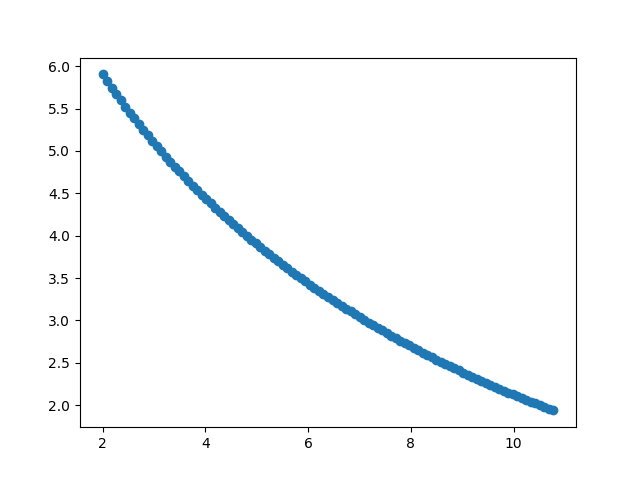
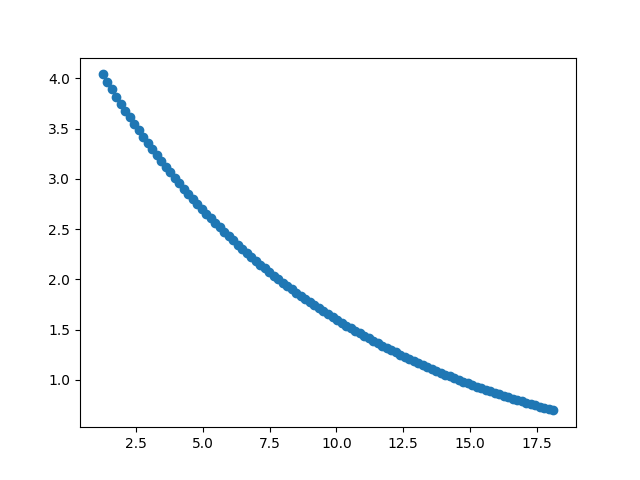
update

diff --git a/Prova 03/edoRungeKutta (ordem 4) - 02.py b/Prova 03/edoRungeKutta (ordem 4) - 02.py
@@ -26,10 +26,10 @@ if __name__ == '__main__':
 
     # Constantes:
     t0 = 0
-    p0 = 0.00167
-    λ = 0.01204
-    μ = 0.00775
-    r = 0.15961
+    p0 = 0.00169
+    λ = 0.02189
+    μ = 0.00562
+    r = 0.10586
 
     # Número de indivíduos na população no tempo t:
     def dx(x, t):
@@ -48,10 +48,12 @@ if __name__ == '__main__':
         return r*λ*(1-p_t)
 
     # Solução da equação diferencial:
+    c = p0 - 1
+    print(c, "\n\n")
     def pt(t):
-        return 1 - 0.9985*e**(-r*λ*t)
+        return 1 - c*e**(-r*λ*t)
     
-    T = [0.10462, 0.25995, 0.49702, 0.65569, 0.97176, 1.13427, 1.37198, 1.42463, 1.76529, 1.9557, 2.12531, 2.27375, 2.5517, 2.69528, 2.90956, 3.13102, 3.23151, 3.54688, 3.70281, 3.88052, 4.09559, 4.28596, 4.48676, 4.76031, 4.86408, 5.08953, 5.2877, 5.44885, 5.68397, 5.91214, 6.05573, 6.33215, 6.43418, 6.68719, 6.93904, 7.0671, 7.36059, 7.46139, 7.65165, 7.97557, 8.15769, 8.29494, 8.54229, 8.62618, 8.9117, 9.11214, 9.32979, 9.47214, 9.72221, 9.83738, 10.15849, 10.27593, 10.50225, 10.75001, 10.94978, 11.15926, 11.33657, 11.53554, 11.67364, 11.83108, 12.04646, 12.37185, 12.42402, 12.74392, 12.88835, 13.16847, 13.35842, 13.57601, 13.67537, 13.93022, 14.0971, 14.32582, 14.55134, 14.67549, 14.9288, 15.02341, 15.3134, 15.53805, 15.68584, 15.94826, 16.13921, 16.29268, 16.51553, 16.72531, 16.88918, 17.06901, 17.36474, 17.53772, 17.71655, 17.90039, 18.04709, 18.26408, 18.47831, 18.66445, 18.88347, 19.14548, 19.24876, 19.57357, 19.68293, 19.91376, 20.16654, 20.36288, 20.5407, 20.76485, 20.97519, 21.04839, 21.37846, 21.48466, 21.74974, 21.84127, 22.09135, 22.32515, 22.52711, 22.69082, 22.92446, 23.12396, 23.29732, 23.55711, 23.67058, 23.85859, 24.15527, 24.36199, 24.45562, 24.64942, 24.91294, 25.11263, 25.28155, 25.51889, 25.65616, 25.91198, 26.02034, 26.27299, 26.47633, 26.68091, 26.93127, 27.06765, 27.37708, 27.49399, 27.63738, 27.84971, 28.03666, 28.32543, 28.50851, 28.71479, 28.87411, 29.17148, 29.31102, 29.48174, 29.66233, 29.9068, 30.03058, 30.29115, 30.54955, 30.62425, 30.82937, 31.06274, 31.33497, 31.47783, 31.6368, 31.82309, 32.07636, 32.29241, 32.57363, 32.6932, 32.97709, 33.026, 33.34341, 33.45855, 33.70255, 33.87452, 34.12597, 34.35138, 34.42653, 34.64484, 34.95384, 35.05452, 35.25646, 35.49442, 35.62289, 35.84952, 36.06399, 36.31707, 36.47644, 36.63849, 36.86541, 37.10615, 37.24955, 37.454, 37.64716, 37.86301, 38.1024, 38.34478, 38.57364, 38.63713, 38.88184, 39.08881, 39.25765, 39.56958, 39.69706, 39.92797, 40.10037, 40.30396, 40.4315, 40.71501, 40.90141, 41.15426, 41.29956, 41.53155, 41.64036, 41.85212, 42.08143, 42.33682, 42.55113, 42.64939, 42.94765, 43.15663, 43.25461, 43.42936, 43.72626, 43.9176, 44.11259, 44.31868, 44.52685, 44.73388, 44.87396, 45.09292, 45.27549, 45.55353, 45.71477, 45.97206, 46.11731, 46.22792, 46.55343, 46.71083, 46.95268, 47.10611, 47.36624, 47.50076, 47.68735, 47.86777, 48.14532, 48.24228, 48.498, 48.73801, 48.84506, 49.1757, 49.25263, 49.54886, 49.77556, 49.82841, 50.0947, 50.35597, 50.57275, 50.63619, 50.95405, 51.09398, 51.27406, 51.44225, 51.62983, 51.91829, 52.15875, 52.35178, 52.49564, 52.77686, 52.96993, 53.15177, 53.31098, 53.53954, 53.64312, 53.9694, 54.06838, 54.24635, 54.46087, 54.69038, 54.86956, 55.1125, 55.29672, 55.54913, 55.73094, 55.97726, 56.17839, 56.2835, 56.55004, 56.73551, 56.94138, 57.13657, 57.30201, 57.51325, 57.71461, 57.88475, 58.09747, 58.30821, 58.54249, 58.70482, 58.83115, 59.14314, 59.31545, 59.44097, 59.68797, 59.93221, 60.10036, 60.34967, 60.55741, 60.6965, 60.93284, 61.15051, 61.28209, 61.43208, 61.66593, 61.928, 62.02318, 62.31817, 62.57422, 62.73281, 62.92324, 63.05969, 63.24474, 63.5766, 63.68884, 63.82926, 64.13551, 64.36292, 64.57354, 64.71274, 64.9234, 65.16687, 65.29805, 65.45104, 65.74748, 65.95981, 66.17254, 66.23799, 66.43943, 66.68398, 66.89518, 67.12307, 67.25633, 67.49607, 67.63229, 67.89522, 68.07269, 68.22584, 68.52136, 68.71925, 68.93724, 69.08454, 69.31524, 69.55451, 69.64613, 69.88536, 70.06811, 70.2786, 70.46115, 70.69209, 70.97987, 71.09759, 71.35822, 71.55414, 71.7501, 71.85713, 72.16123, 72.36252, 72.43404, 72.77506, 72.88941, 73.13029, 73.31334, 73.48038, 73.75016, 73.89843, 74.15651, 74.22168, 74.5202, 74.65923, 74.85696, 75.08477, 75.25504, 75.49418, 75.75882, 75.88444, 76.03645, 76.27411, 76.57873, 76.69161, 76.95334, 77.13342, 77.33482, 77.45564, 77.62987, 77.94058, 78.06685, 78.2388, 78.43769, 78.71071, 78.97517, 79.14139, 79.3784, 79.49768, 79.68132, 79.9721, 80.1478, 80.24373, 80.57043, 80.73253, 80.85675, 81.08119, 81.34436, 81.42932, 81.74353, 81.82965, 82.15938, 82.29007, 82.4212, 82.6523, 82.8606, 83.06236, 83.25206, 83.51552, 83.66601, 83.83619, 84.07382, 84.23678, 84.50829, 84.76585, 84.86645, 85.15688, 85.22273, 85.49998, 85.71582, 85.88888, 86.09024, 86.23621, 86.43475, 86.77321, 86.92938, 87.06982, 87.22253, 87.54466, 87.72304, 87.91498, 88.14333, 88.33719, 88.51329, 88.74609, 88.96215, 89.08692, 89.2308, 89.42154, 89.6201, 89.93369, 90.08999, 90.35114, 90.42623, 90.66581, 90.83955, 91.1557, 91.22371, 91.48536, 91.63789, 91.8733, 92.1143, 92.36347, 92.55861, 92.76515, 92.87898, 93.05763, 93.28436, 93.56237, 93.63938, 93.84597, 94.09431, 94.36596, 94.57688, 94.73504, 94.84932, 95.0905, 95.33103, 95.5474, 95.65331, 95.93203, 96.05238, 96.30415, 96.50066, 96.73288, 96.93913, 97.03127, 97.2269, 97.46547, 97.70348, 97.89263, 98.07649, 98.31534, 98.49155, 98.73749, 98.87535, 99.0482, 99.25634, 99.448, 99.70909, 99.94919]
+    T = [0.22202, 0.73833, 1.76548, 2.13628, 3.19486, 3.8146, 4.17406, 5.14016, 5.90284, 6.16283, 6.75819, 7.90226, 8.27462, 9.09921, 9.72353, 10.41781, 11.23227, 11.65809, 12.1288, 12.86343, 13.41878, 14.46325, 15.12432, 15.84784, 16.28863, 16.79791, 17.7658, 18.49269, 19.09803, 19.87142, 20.11612, 21.16406, 21.9171, 22.31263, 22.77625, 23.79936, 24.58466, 25.03739, 25.4217, 26.47367, 26.80434, 27.44639, 28.35033, 28.76649, 29.63505, 30.48921, 31.03695, 31.42376, 32.12139, 32.76508, 33.72374, 34.35965, 34.75431, 35.56717, 36.10783, 37.15379, 37.84235, 38.25515, 39.20022, 39.59792, 40.20055, 41.10064, 41.63751, 42.2174, 43.2297, 43.65221, 44.40634, 45.22703, 45.55881, 46.47783, 47.03153, 47.77528, 48.40774, 49.1861, 49.72846, 50.14229, 51.01386, 51.44533, 52.31224, 53.25571, 53.89747, 54.35974, 54.81451, 55.83922, 56.43753, 56.97145, 57.68305, 58.52454, 58.82084, 59.87128, 60.54268, 60.93295, 61.8514, 62.44659, 62.77573, 63.54974, 64.46309, 64.92231, 65.93225, 66.10762, 66.77443, 67.59258, 68.18669, 68.91827, 69.60787, 70.18126, 70.87564, 71.5547, 72.16042, 73.09082, 73.52483, 74.33858, 74.79146, 75.45176, 76.50467, 76.8367, 77.84732, 78.25708, 78.96817, 79.54435, 80.1685, 81.16896, 81.82283, 82.44903, 83.22834, 83.91028, 84.20401, 84.93112, 85.88119, 86.28737, 86.74712, 87.5451, 88.24836, 88.78507, 89.92229, 90.5133, 91.22585, 91.73898, 92.41934, 93.14259, 93.65038, 94.33489, 95.08428, 95.7823, 96.29279, 96.90283, 97.83079, 98.37555, 99.03492, 99.54163]
 
     T, P = rungeKutta(dp, t0, p0, T)
 

diff --git a/Prova 03/edoRalston01.py b/Prova 03/edoRalston01.py
@@ -38,20 +38,20 @@ if __name__ == '__main__':
 
     # Equação obtida para a derivada primeira de y na equação diferencial:
 
-    k = 0.0607*pi
+    k = 0.0618*pi
 
     def E(t):
         return e**(-k*t) * sin(2*t - pi)
 
     def dE(t):
-        return e**(-k*t) * (-k*sin(2*t - pi) + 2*cos(2*t - pi))
+        return e**(-k*t) * (k*sin(2*t) - 2*cos(2*t))
 
     def ddE(t):
-        return (-4*k*pi*cos(2*t - pi) + (-4 + k**2)*sin(2*t - pi)) * (e**(-k*t))
+        return (4*k*pi*cos(2*t) - (-4 + k**2)*sin(2*t)) * (e**(-k*t))
 
-    C = 0.3702
-    R = 1.1162
-    L = 1.5218
+    C = 0.2195
+    R = 1.3016
+    L = 1.685
 
     def df(x, y):
         return C*ddE(x) + (1/R)*dE(x) + (1/L)*E(x)
@@ -62,7 +62,7 @@ if __name__ == '__main__':
     # Número de iterações(passos; para encontrar o e-nésimo valor de y deve-se fazer n+1 iterações):
     n = 151
     # Tamanho de cada passo:
-    h = 0.1959
+    h = 0.1576
         
     X, Y = ralston(df, x0, y0, h, n)
     # t = np.linspace(x0, n*h, 200)
@@ -73,4 +73,4 @@ if __name__ == '__main__':
     # plt.plot(t, ft, color = "green")
     plt.scatter(X, Y, label = "blue")
     plt.savefig("Exercício23 (corrente).png")
-    # plt.close()
+    plt.close()

diff --git a/Prova 03/legendre01.py b/Prova 03/legendre01.py
@@ -168,10 +168,10 @@ if __name__ == '__main__':
 
     a = -1
     b = 1
-    num_of_polys = 50
+    last_poly_num = 50
     exact_for_degree_less_than = 24
 
-    P = optimized_legendre(num_of_polys+1)
+    P = optimized_legendre(last_poly_num+1)
 
     from NodesAndWeights import *
     order = str(int(exact_for_degree_less_than/2))    
@@ -185,7 +185,7 @@ if __name__ == '__main__':
     for ck in coeffs:
         print(f"{ck},")
 
-    values = [-0.741, 0.056, 0.907]
+    values = [-0.558, -0.04, 0.841]
     for i, xi in enumerate(values):
         print(f"g(x_{i+1}) = {g(xi)},")
 

diff --git a/Prova 03/EulerFirstOrder.py b/Prova 03/EulerFirstOrder.py
@@ -24,16 +24,16 @@ if __name__ == '__main__':
     # Exemplo 01 para y'(x) = e**x:
 
     # Equação obtida para a derivada primeira de y na equação diferencial:
-    a = 8.78623
+    a = 9.92863
     def df(x, y):
         return -y/sqrt(a**2 -y**2)
     
     # Restrição de valor inicial: 
-    x0, y0 = 1.99943, 5.90312
+    x0, y0 = 1.24309, 4.03811
     # Número de iterações(passos):
     n = 101
     # Tamanho de cada passo:
-    h = 0.08774
+    h = 0.1689
         
     X, Y = euler(df, x0, y0, h, n)
     t = np.linspace(x0, n*h, 200)

diff --git a/Prova 03/Heun.py b/Prova 03/Heun.py
@@ -22,14 +22,14 @@ if __name__ == '__main__':
     # Exemplo 01:
 
     # Equação obtida para a derivada primeira de y na equação diferencial:
-    v = 35621
-    λ = 0.0119
+    v = 31347
+    λ = 0.08955
     def df(x, y):
         return λ*y - v
     
     # Restrição de valor inicial: 
     x0 = 0
-    y0 = 1988046
+    y0 = 1020560
     # Número de iterações(passos; para encontrar o e-nésimo valor de y deve-se fazer n+1 iterações):
     n = int(1/0.0625) + 1
     # Tamanho de cada passo:

diff --git a/Prova 03/legendre01 (bidin version).py b/Prova 03/legendre01 (bidin version).py
@@ -292,7 +292,7 @@ if __name__ == '__main__':
     funcs = [build_legendre_polynomial(i) for i in range(grau)]
     a = -1
     b = 1
-    values = [-0.741, 0.056, 0.907]
+    values = [-0.558, -0.04, 0.841]
     # quadratura gaussina
     exact_for_degree_less_than = 24
     order = str(int(exact_for_degree_less_than / 2))

diff --git a/Prova 03/ortogonalização01.py b/Prova 03/ortogonalização01.py
@@ -99,7 +99,7 @@ def proj_k(f, g, a, b, n) -> float:
 
 if __name__ == '__main__':
 
-    a, b = [-1.00088, 1.30114]
+    a, b = [-1.16104, 1.14094]
     n = 500
     x = symbols('x')
     func_list = [1,  x, x**2, x**3, x**4, x**5, x**6, x**7, x**8, x**9]
